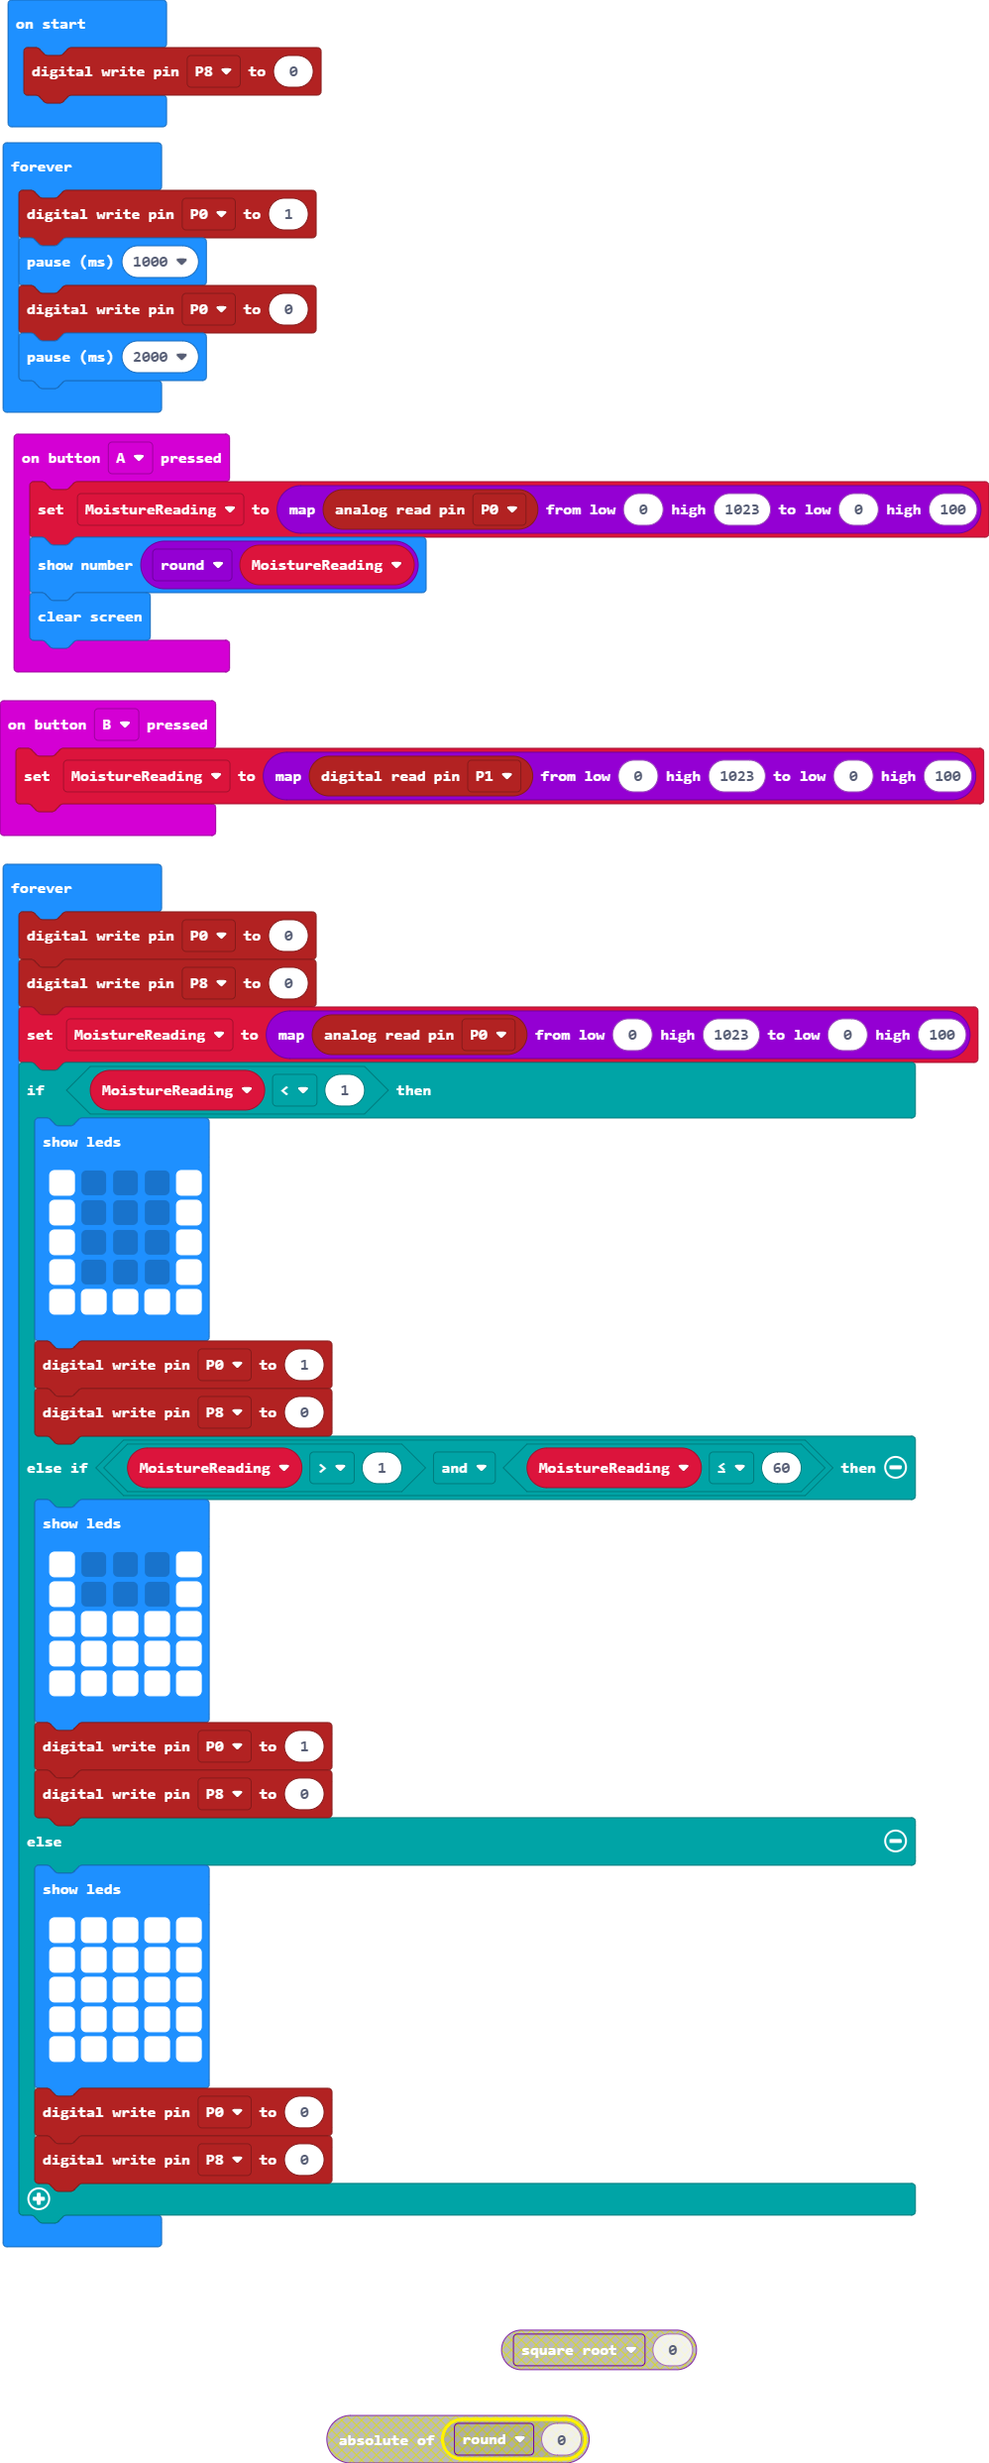
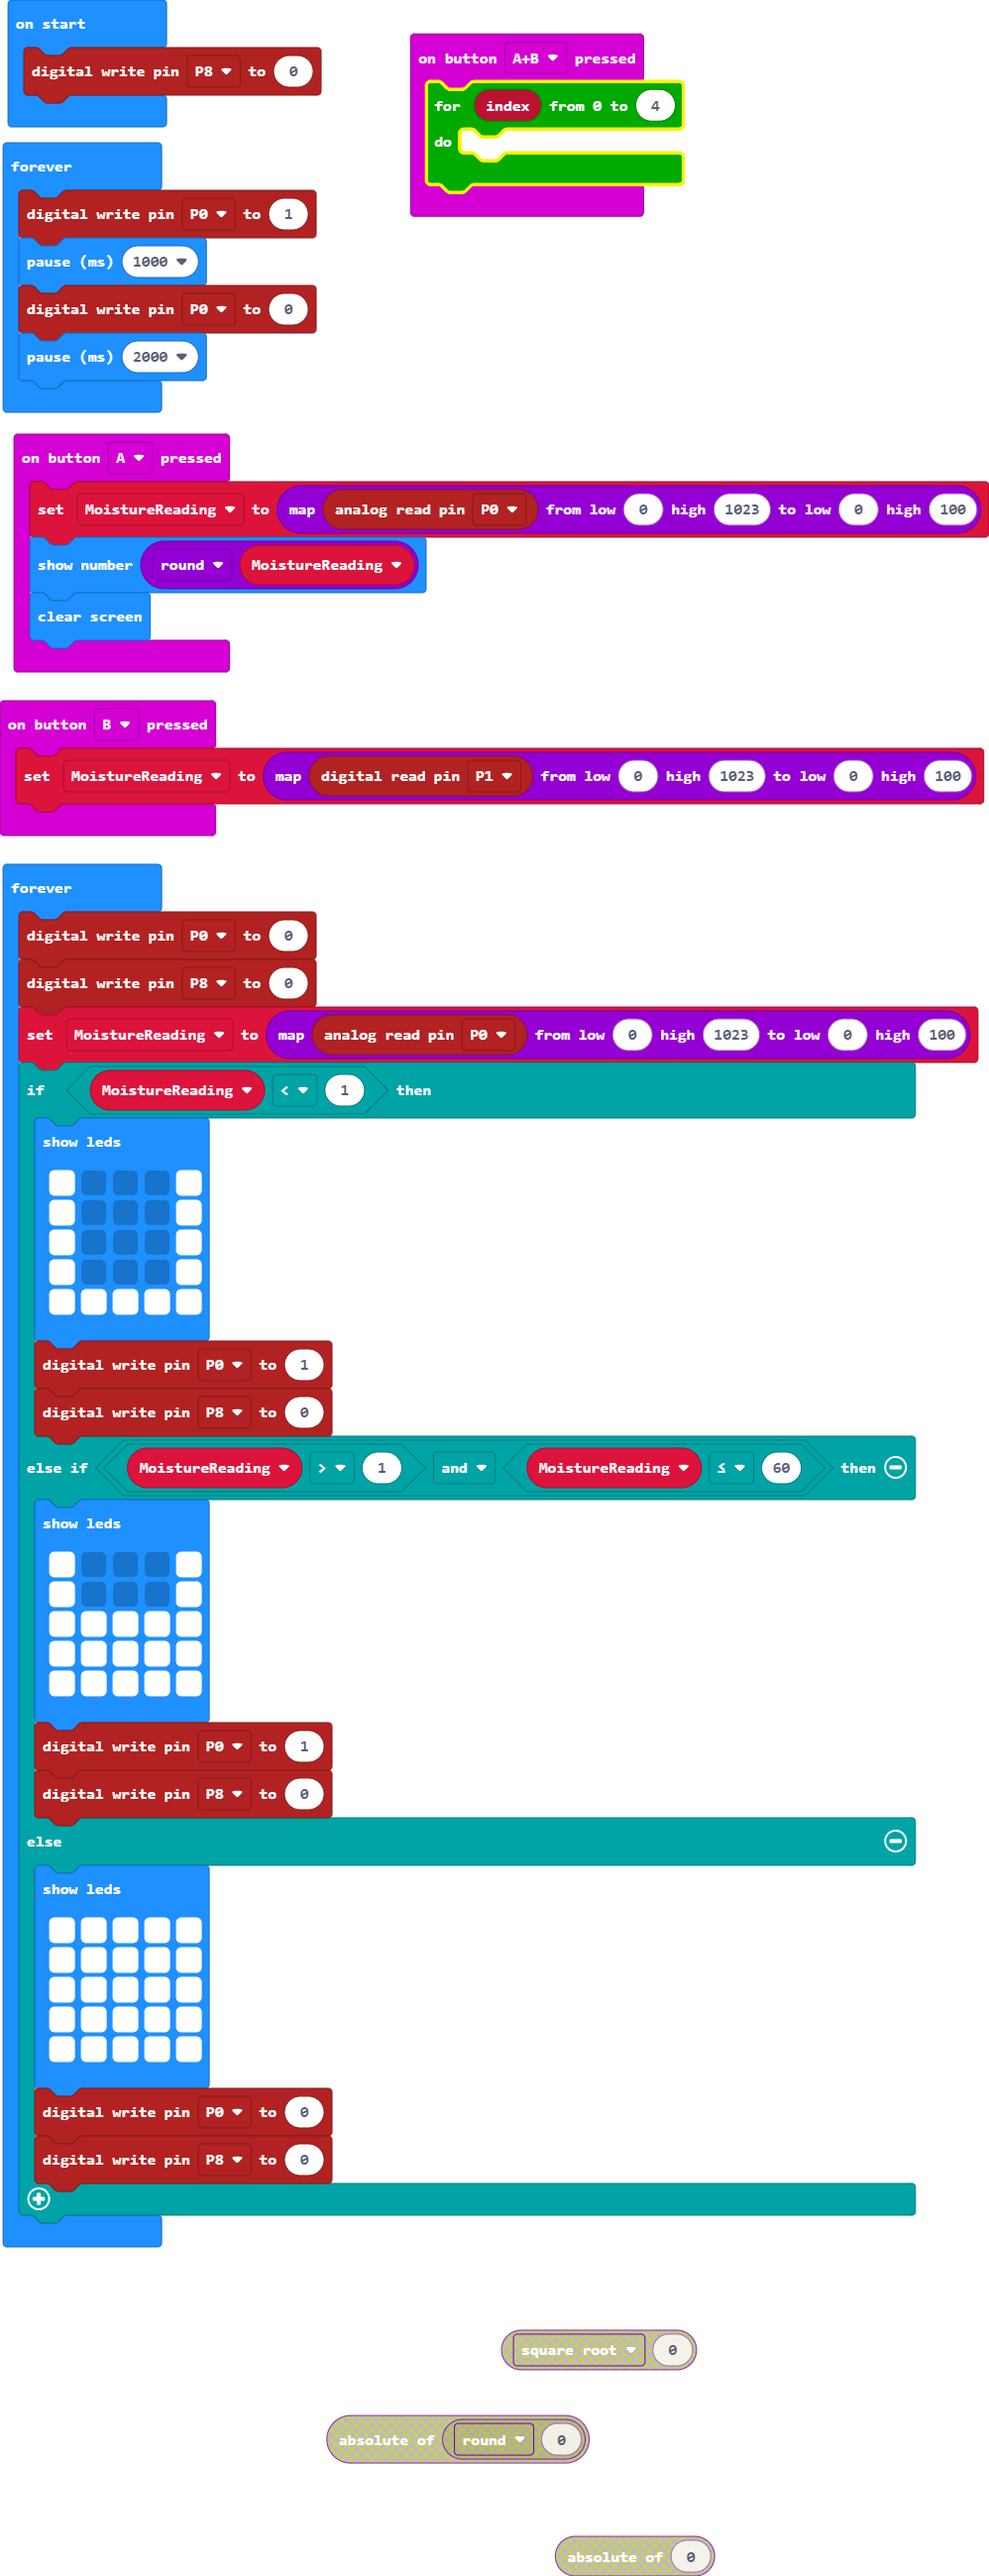
Add a loop

diff --git a/main.ts b/main.ts
@@ -3,6 +3,11 @@ input.onButtonPressed(Button.A, function () {
     basic.showNumber(Math.round(MoistureReading))
     basic.clearScreen()
 })
+input.onButtonPressed(Button.AB, function () {
+    for (let index = 0; index <= 4; index++) {
+    	
+    }
+})
 input.onButtonPressed(Button.B, function () {
     MoistureReading = Math.map(pins.digitalReadPin(DigitalPin.P1), 0, 1023, 0, 100)
 })
